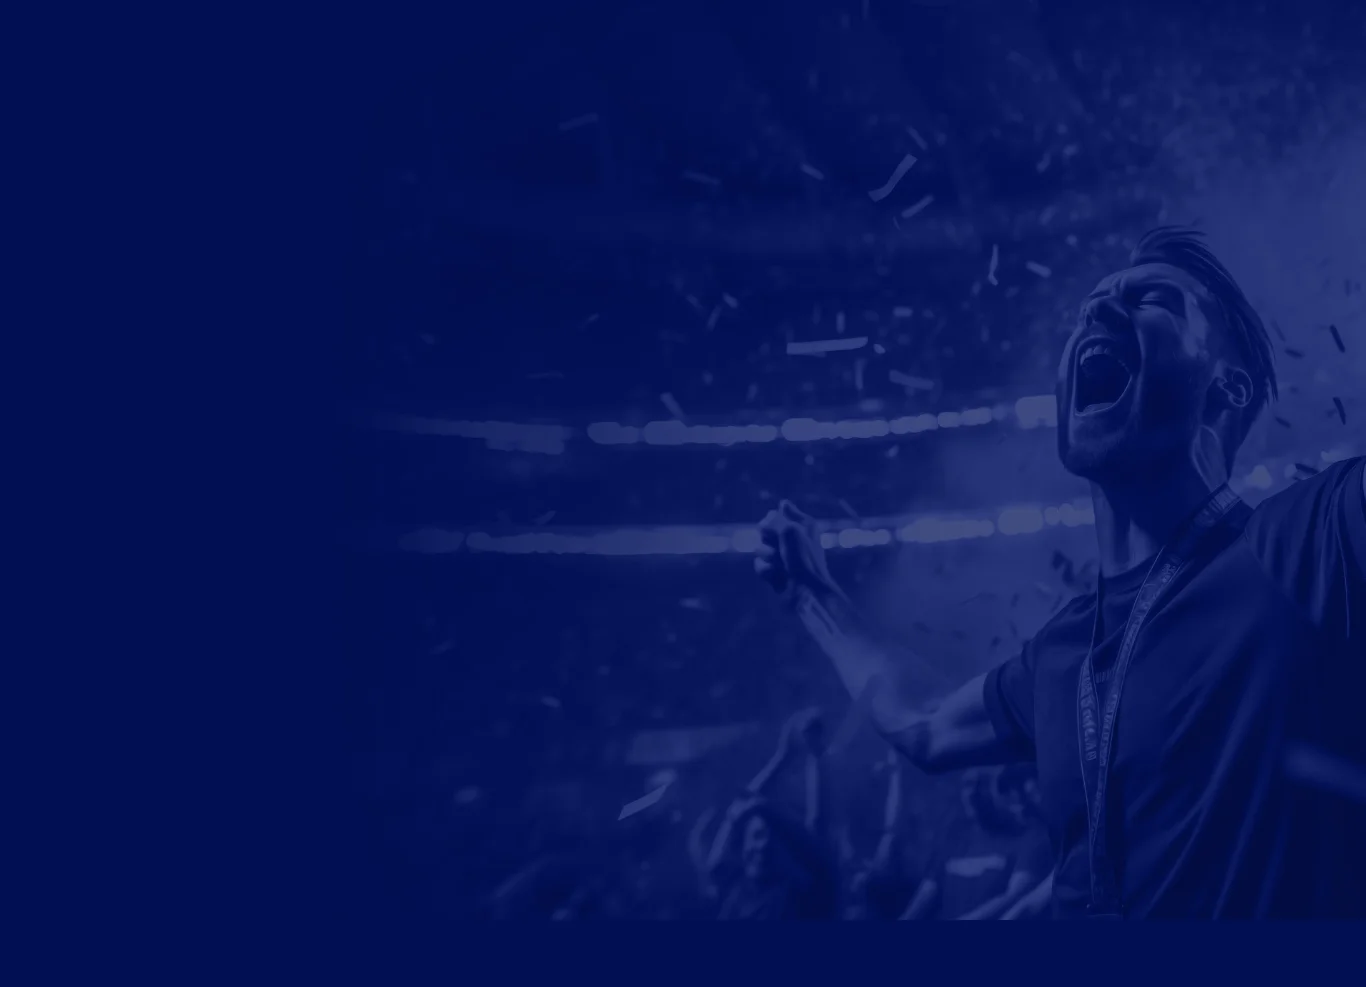
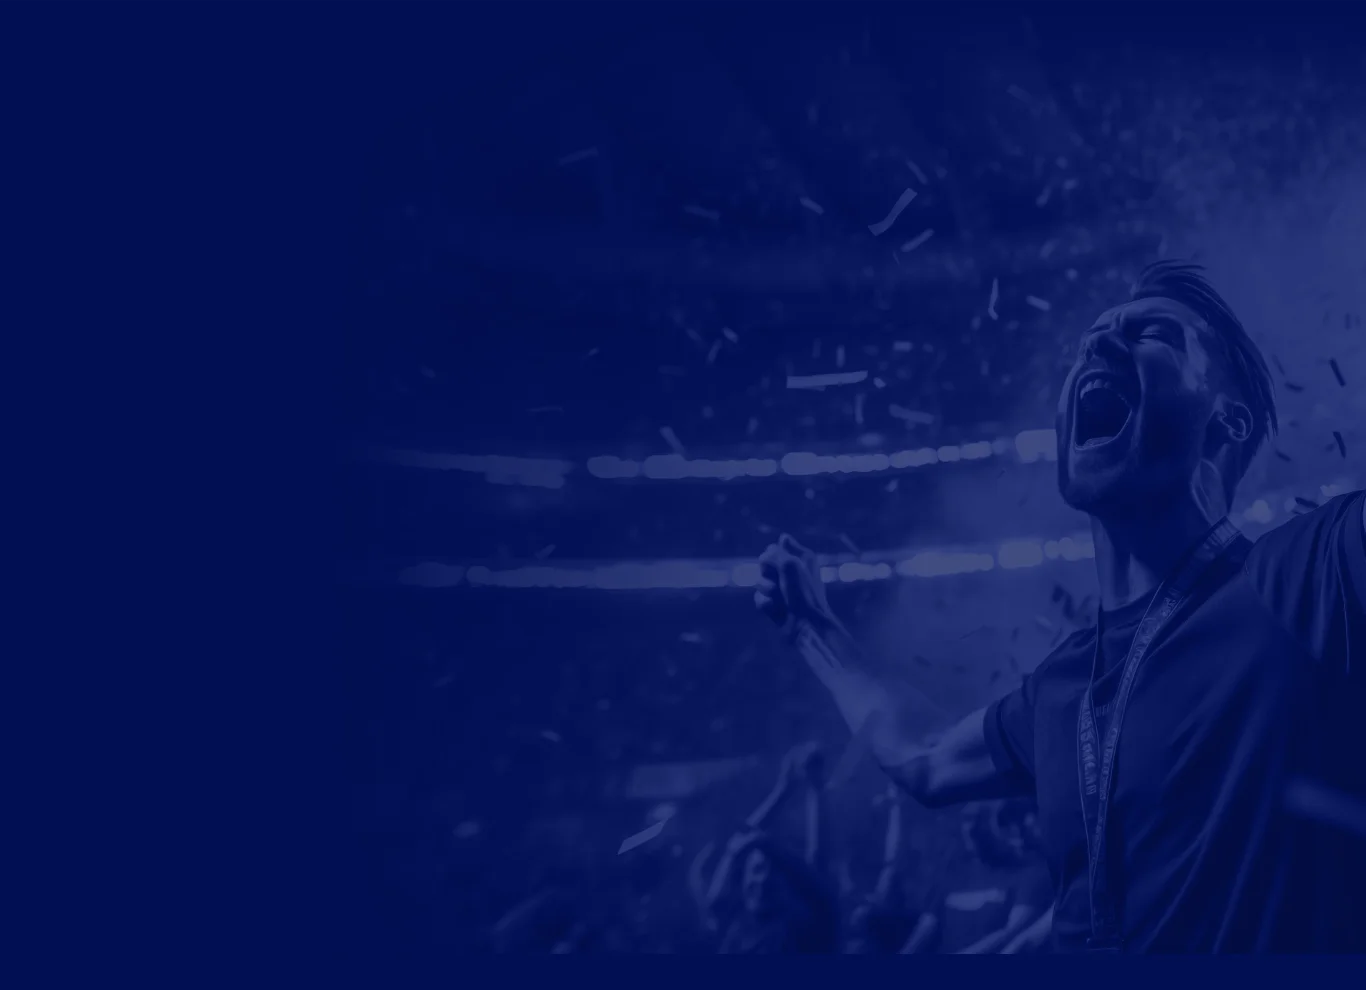
feat: adições SEO

diff --git a/components/Icons/index.js b/components/Icons/index.js
@@ -104,3 +104,139 @@ export const Cursor = () => {
     </svg>
   );
 }
+
+export const Team = () => {
+  return (
+    <svg
+      xmlns="http://www.w3.org/2000/svg"
+      width="74.549"
+      height="74.549"
+      viewBox="0 0 74.549 74.549"
+    >
+      <g data-name="team (1)" transform="translate(1 1)">
+        <g data-name="Grupo 2906" transform="translate(-1 -1)">
+          <g fill="#fff" data-name="Grupo 2905">
+            <circle
+              cx="7.455"
+              cy="7.455"
+              r="7.455"
+              data-name="Elipse 15"
+              transform="translate(59.639 29.819)"
+            ></circle>
+            <circle
+              cx="7.455"
+              cy="7.455"
+              r="7.455"
+              data-name="Elipse 16"
+              transform="translate(0 29.819)"
+            ></circle>
+            <circle
+              cx="7.455"
+              cy="7.455"
+              r="7.455"
+              data-name="Elipse 17"
+              transform="translate(29.819 59.639)"
+            ></circle>
+            <circle
+              cx="7.455"
+              cy="7.455"
+              r="7.455"
+              data-name="Elipse 18"
+              transform="translate(29.819)"
+            ></circle>
+            <circle
+              cx="14.91"
+              cy="14.91"
+              r="14.91"
+              data-name="Elipse 19"
+              transform="translate(22.365 22.365)"
+            ></circle>
+            <path
+              d="M59.44 49.749a14.275 14.275 0 01-1.864-7.082 32.126 32.126 0 00-14.91 14.91 14.274 14.274 0 017.082 1.864 34.273 34.273 0 019.692-9.692z"
+              data-name="Caminho 216498"
+              transform="translate(-35.212 -35.212)"
+            ></path>
+            <path
+              d="M49.749 288a14.275 14.275 0 01-7.082 1.864 36.826 36.826 0 0014.91 15.283v-.373a14.274 14.274 0 011.864-7.082A24.252 24.252 0 0149.749 288z"
+              data-name="Caminho 216499"
+              transform="translate(-35.212 -237.68)"
+            ></path>
+            <path
+              d="M297.691 59.44a14.274 14.274 0 017.082-1.864c-3.355-6.337-8.573-11.928-14.91-14.91A14.275 14.275 0 01288 49.749a24.25 24.25 0 019.691 9.691z"
+              data-name="Caminho 216500"
+              transform="translate(-237.68 -35.212)"
+            ></path>
+            <path
+              d="M288 297.691a15.417 15.417 0 011.864 7.082v.373a31.263 31.263 0 0014.91-15.283 14.274 14.274 0 01-7.083-1.863 24.25 24.25 0 01-9.691 9.691z"
+              data-name="Caminho 216501"
+              transform="translate(-237.68 -237.679)"
+            ></path>
+          </g>
+        </g>
+      </g>
+    </svg>
+  )
+}
+
+export const Shopping = () => {
+  return (
+    <svg
+      xmlns="http://www.w3.org/2000/svg"
+      width="86.273"
+      height="73.13"
+      viewBox="0 0 86.273 73.13"
+    >
+      <g fill="#fff" transform="translate(-2 -6.57)">
+        <path
+          d="M9.3 55.674h42.422v18.951a5.024 5.024 0 004.961 5.075h26.63a5.024 5.024 0 004.961-5.076V41.18a5.024 5.024 0 00-4.962-5.08H72.384V13.889a7.333 7.333 0 00-7.333-7.319H9.3A7.318 7.318 0 002 13.889v34.466a7.318 7.318 0 007.3 7.319zm54.6 16.837a1.442 1.442 0 011.438-1.438h9.317a1.438 1.438 0 010 2.876h-9.316a1.442 1.442 0 01-1.439-1.438zm14.9-25.422a7.915 7.915 0 01-7.811 8.011h-1.984a7.915 7.915 0 01-7.805-8.011v-1.941a1.438 1.438 0 112.876 0v1.941a5.041 5.041 0 004.932 5.133h1.984a5.041 5.041 0 004.932-5.133v-1.394a1.438 1.438 0 012.876 0zm-73.924-33.2A4.443 4.443 0 019.3 9.446h55.751a4.458 4.458 0 014.457 4.443V36.1H56.683a5.024 5.024 0 00-4.961 5.076V52.8H9.3a4.443 4.443 0 01-4.429-4.443z"
+          data-name="Caminho 216488"
+        ></path>
+        <path
+          d="M10.6 31.762h11.877a3.486 3.486 0 003.48-3.494V17.584a3.486 3.486 0 00-3.48-3.494H10.6a3.5 3.5 0 00-3.48 3.494v10.683a3.5 3.5 0 003.48 3.494z"
+          data-name="Caminho 216489"
+          transform="translate(2.242 3.293)"
+        ></path>
+        <path
+          d="M32.2 18.075h18.263a1.438 1.438 0 100-2.876H32.2a1.438 1.438 0 100 2.876z"
+          data-name="Caminho 216490"
+          transform="translate(12.595 3.778)"
+        ></path>
+        <path
+          d="M24.714 18.075h4.826a1.438 1.438 0 100-2.876h-4.826a1.438 1.438 0 100 2.876z"
+          data-name="Caminho 216491"
+          transform="translate(9.316 3.778)"
+        ></path>
+        <path
+          d="M24.714 22.111h29.028a1.438 1.438 0 000-2.876H24.714a1.438 1.438 0 100 2.876z"
+          data-name="Caminho 216492"
+          transform="translate(9.316 5.546)"
+        ></path>
+        <path
+          d="M24.714 26.147h29.028a1.438 1.438 0 000-2.876H24.714a1.438 1.438 0 100 2.876z"
+          data-name="Caminho 216493"
+          transform="translate(9.316 7.313)"
+        ></path>
+        <path
+          d="M7.54 35.093a1.437 1.437 0 002.033 0l1.349-1.349 1.349 1.349A1.438 1.438 0 0014.3 33.06l-1.349-1.349 1.349-1.348a1.438 1.438 0 10-2.033-2.033l-1.349 1.349-1.344-1.35a1.438 1.438 0 10-2.034 2.034l1.349 1.349L7.54 33.06a1.436 1.436 0 000 2.033z"
+          data-name="Caminho 216494"
+          transform="translate(2.241 9.343)"
+        ></path>
+        <path
+          d="M21.52 28.33a1.436 1.436 0 00-2.033 0l-1.349 1.349-1.348-1.349a1.438 1.438 0 00-2.033 2.033l1.349 1.349-1.349 1.349a1.438 1.438 0 102.033 2.033l1.349-1.349 1.349 1.349a1.438 1.438 0 002.033-2.033l-1.349-1.349 1.349-1.349a1.436 1.436 0 000-2.033z"
+          data-name="Caminho 216495"
+          transform="translate(5.401 9.344)"
+        ></path>
+        <path
+          d="M21.973 35.093a1.437 1.437 0 002.033 0l1.349-1.349 1.345 1.349a1.438 1.438 0 002.033-2.033l-1.349-1.349 1.349-1.349a1.438 1.438 0 00-2.033-2.033l-1.349 1.349-1.349-1.349a1.438 1.438 0 10-2.033 2.033l1.349 1.349-1.345 1.349a1.436 1.436 0 000 2.033z"
+          data-name="Caminho 216496"
+          transform="translate(8.561 9.343)"
+        ></path>
+        <path
+          d="M35.953 28.33a1.436 1.436 0 00-2.033 0l-1.349 1.349-1.348-1.349a1.438 1.438 0 00-2.033 2.033l1.349 1.349-1.349 1.349a1.438 1.438 0 102.033 2.033l1.349-1.349 1.349 1.349a1.438 1.438 0 002.033-2.033L34.6 31.712l1.349-1.349a1.436 1.436 0 000-2.033z"
+          data-name="Caminho 216497"
+          transform="translate(11.721 9.344)"
+        ></path>
+      </g>
+    </svg>
+  );
+}

diff --git a/components/Volt/ProjectSummary/index.js b/components/Volt/ProjectSummary/index.js
@@ -15,8 +15,9 @@ const ProjectSummary = () => {
       <div className={`container`}>
         <div className={styles.ProjectSummaryContent}>
           <h2>Jogando para <strong>ganhar!</strong></h2>
-          <p>É um facto estabelecido de que um leitor é distraído pelo conteúdo legível de uma página quando analisa a sua mancha gráfica. Logo, o uso de Lorem Ipsum leva a uma distribuição mais ou menos normal de letras, ao contrário do uso de "Conteúdo aqui, conteúdo aqui", tornando-o texto legível. Muitas ferramentas de publicação electrónica e editores de páginas web usam actualmente o Lorem Ipsum como o modelo de texto usado por omissão, e uma pesquisa por "lorem ipsum" irá encontrar muitos websites ainda na sua infância.</p>
-          <p>É um facto estabelecido de que um leitor é distraído pelo conteúdo legível de uma página quando analisa a sua mancha gráfica. Logo, o uso de Lorem Ipsum leva a uma distribuição mais ou menos normal de letras, ao contrário do uso de "Conteúdo aqui, conteúdo aqui", tornando-o texto legível. Muitas ferramentas de publicação electrónica e editores de páginas web usam actualmente o Lorem Ipsum como o modelo de texto usado por omissão, e uma pesquisa por "lorem ipsum" irá encontrar muitos websites ainda na sua infância</p>
+          <p>A Nairuz enfrentou desafios significativos ao gerenciar esses diversos projetos de e-commerce simultaneamente. Como jogadores em campo, a equipe de tecnologia teve que driblar entre entrega no prazo e qualidade do trabalho. Para isso, foi utilizado métricas como taxa de conversão e taxa de abandono de carrinho para avaliar o sucesso dos projetos. A integração com sócio torcedor via API e a harmonização entre Design UX/UI e Desenvolvimento foi uma jogada ensaiada.</p>
+          <p>Além disso, a alocação eficiente de recursos e a gestão cuidadosa das prioridades foram essenciais para garantir o avanço eficiente em campo de todos os projetos. A comunicação dos capitães foi decisiva no sucesso da coordenação dos 13 projetos simultaneamente. Isso envolveu múltiplas empresas e garantiu a <strong>consistência da experiência do usuário.</strong></p>
+          <p>Os desafios incluíram ajustar a quantidade de profissionais atuando nos projetos, projetar um único layout para atender a diferentes requisitos e integrar-se com diversas partes interessadas. Por isso, a empresa adotou uma abordagem estruturada, seguindo processos rigorosos ao manter uma comunicação clara para superar os obstáculos e alcançar o sucesso na gestão dos múltiplos e-commerces. <strong>E assim, a Nairuz marcou o gol da vitória!</strong></p>
           <button type='button'>FALAR COM UM ESPECIALISTA</button>
         </div>
       </div>

diff --git a/components/Volt/VoltSpieler/index.js b/components/Volt/VoltSpieler/index.js
@@ -29,7 +29,8 @@ const VoltSpieler = () => {
 
           <div className={styles.voltSpielerText}>
             <h2>Jogando para <strong>ganhar!</strong></h2>
-            <p>É um facto estabelecido de que um leitor é distraído pelo conteúdo legível de uma página quando analisa a sua mancha gráfica. Logo, o uso de Lorem Ipsum leva a uma distribuição mais ou menos normal de letras, ao contrário do uso de "Conteúdo aqui, conteúdo aqui", tornando-o texto legível. Muitas ferramentas de publicação electrónica e editores de páginas web usam actualmente o Lorem Ipsum como o modelo de texto usado por omissão, e uma pesquisa por "lorem ipsum" irá encontrar muitos websites ainda na sua infância</p>
+            <p>A Volt Sport é um talento emergente nos negócios esportivos brasileiros. Com estilo arrojado e técnica refinada, oferece produtos de alta qualidade e inovação. Em apenas dois anos, já veste 9 clubes, ganhando a torcida por seus materiais de elite e designs inovadores. Produzindo 2 milhões de peças anualmente, planeja expandir-se ainda mais.</p>
+            <p>Já a Spieler Sports é uma veterana nos campos do mercado nacional. Com um jogo focado na precisão, tecnologia e entrega de primeira linha, ela veste o esporte amador com a excelência dos profissionais, oferecendo preços competitivos e materiais de primeira categoria. Sua busca incansável por inovação é um chute certeiro que reflete sua paixão pelo esporte e satisfação do cliente.</p>
             <div className={styles.voltSpielerLogos}>
               <div className={styles.voltLogo}>
                 <Image src={voltLogo} alt='Volt' width={125} height={60} />

diff --git a/components/Volt/Challenges/challenges.js b/components/Volt/Challenges/challenges.js
@@ -1,4 +1,4 @@
-import { Medal, Management, Cursor } from "../../Icons"
+import { Medal, Management, Cursor, Team, Shopping } from "../../Icons"
 
 export const CHALLENGES = [
   {
@@ -11,12 +11,24 @@ export const CHALLENGES = [
     id: 2,
     Icon: Management,
     title: 'Gestão',
-    description: 'Foi necessário aplicar uma gestão impecável de forma direta a um total de <strong>5 equipes</strong> envolvidas em todo o projeto.'
+    description: 'Gerenciar múltiplos projetos simultaneamente, exigindo uma cuidadosa gestão de prioridades e comunicação clara entre os jogadores em campo de Design UX/UI e Desenvolvimento.'
   },
   {
     id: 3,
     Icon: Cursor,
     title: 'Navegabilidade',
-    description: 'Foi desenvolvido um layout seguindo as boas práticas de usabilidade de forma a garantir uma boa navegação para todos os e-commerces.'
+    description: 'Projetar um único layout que atendesse aos requisitos de todos os times, garantindo uma experiência de navegação de qualidade independente do clube ou identidade.'
+  },
+  {
+    id: 4,
+    Icon: Team,
+    title: 'Mais de 5 equipes no projeto',
+    description: 'Integrar-se com diversas empresas envolvidas no processo, atuando como um "hub de integração" para conectar todos os envolvidos, incluindo o time de marketing do cliente, time de ERP e plataforma de e-commerce.'
+  },
+  {
+    id: 5,
+    Icon: Shopping,
+    title: 'Prazo e Qualidade',
+    description: 'Manter o equilíbrio entre garantir a entrega dos projetos no prazo e manter a qualidade do trabalho em cada um deles, marcando um gol com todo o processo sendo cumprido na íntegra.'
   }
 ]

diff --git a/pages/cases/volt.js b/pages/cases/volt.js
@@ -16,13 +16,13 @@ export default function Volt() {
   return (
     <>
     <Head>
-        <title>Volt e Spieler | Nairuz Agência de Marketing Digital e Tecnologia</title>
-        <meta name="description" content="Descubra como a Agência de Marketing Digital e Tecnologia pode alavancar os resultados da sua empresa! Aproveite a oportunidade! Saiba mais agora!" />
+        <title>A Nairuz entrou em campo!</title>
+        <meta name="description" content="2024 começou com a nossa escalação em um super projeto em parceria com a Volt e Spieler." />
         <meta property="og:image" content="https://nairuz.com.br/og-nairuz.png" />
 				<meta property="og:image:type" content="image/png" />
 				<meta property="og:image:width" content="600" />
 				<meta property="og:image:height" content="400" />
-        <meta property="og:description" content="Descubra como a Agência de Marketing Digital e Tecnologia pode alavancar os resultados da sua empresa! Aproveite a oportunidade! Saiba mais agora!" />
+        <meta property="og:description" content="2024 começou com a nossa escalação em um super projeto em parceria com a Volt e Spieler." />
 				<meta property="og:site_name" content="Nairuz Agência de Marketing Digital e Tecnologia" />
 				<meta property="og:type" content="website" />
         <link rel="icon" href="/favicon.png" />

diff --git a/components/Volt/Challenges/challenges.module.css b/components/Volt/Challenges/challenges.module.css
@@ -73,6 +73,12 @@
 .animate .challengeCard:nth-child(3) {
   animation: fadeInAndSlideUp .5s 1s forwards;
 }
+.animate .challengeCard:nth-child(4) {
+  animation: fadeInAndSlideUp .5s 1.2s forwards;
+}
+.animate .challengeCard:nth-child(5) {
+  animation: fadeInAndSlideUp .5s 1.4s forwards;
+}
 @keyframes fadeInAndSlideUp {
   0% {
     bottom: -388px;

diff --git a/components/Volt/FormCase/form.case.module.css b/components/Volt/FormCase/form.case.module.css
@@ -3,7 +3,8 @@
   background-position: center;
   background-repeat: no-repeat;
   background-size: cover;
-  padding-top: 73px;
+  background-position: top center;
+  padding-top: 150px;
   padding-bottom: 150px;
   position: relative;
 }

diff --git a/components/Volt/VoltSpieler/volt.spieler.module.css b/components/Volt/VoltSpieler/volt.spieler.module.css
@@ -82,7 +82,7 @@
 .voltSpielerText p {
   font-size: 20px;
   line-height: 25px;
-  max-width: 440px;
+  max-width: 490px;
   width: 100%;
   margin: 30px 0;
   opacity: 0;
